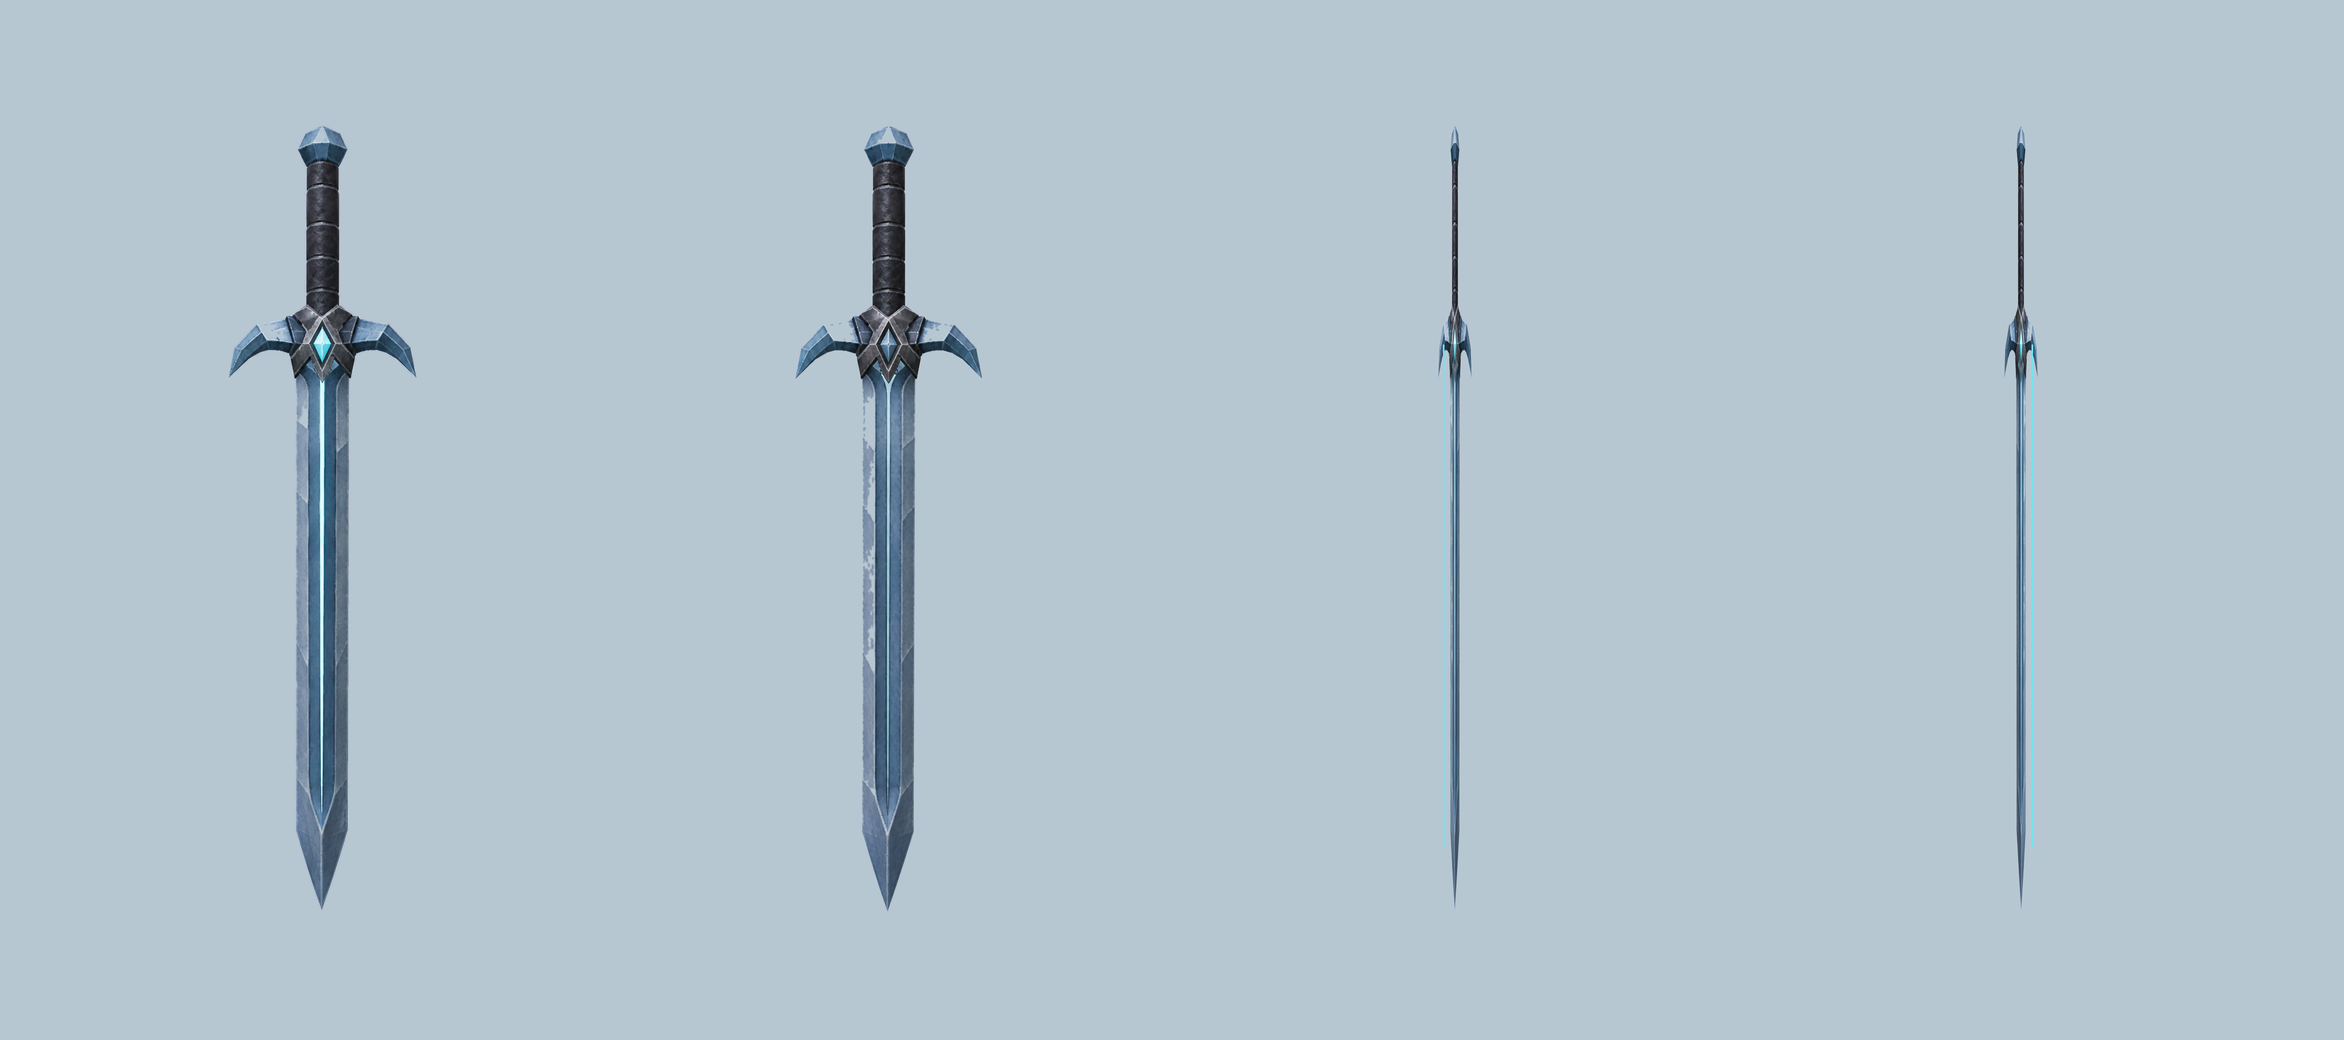
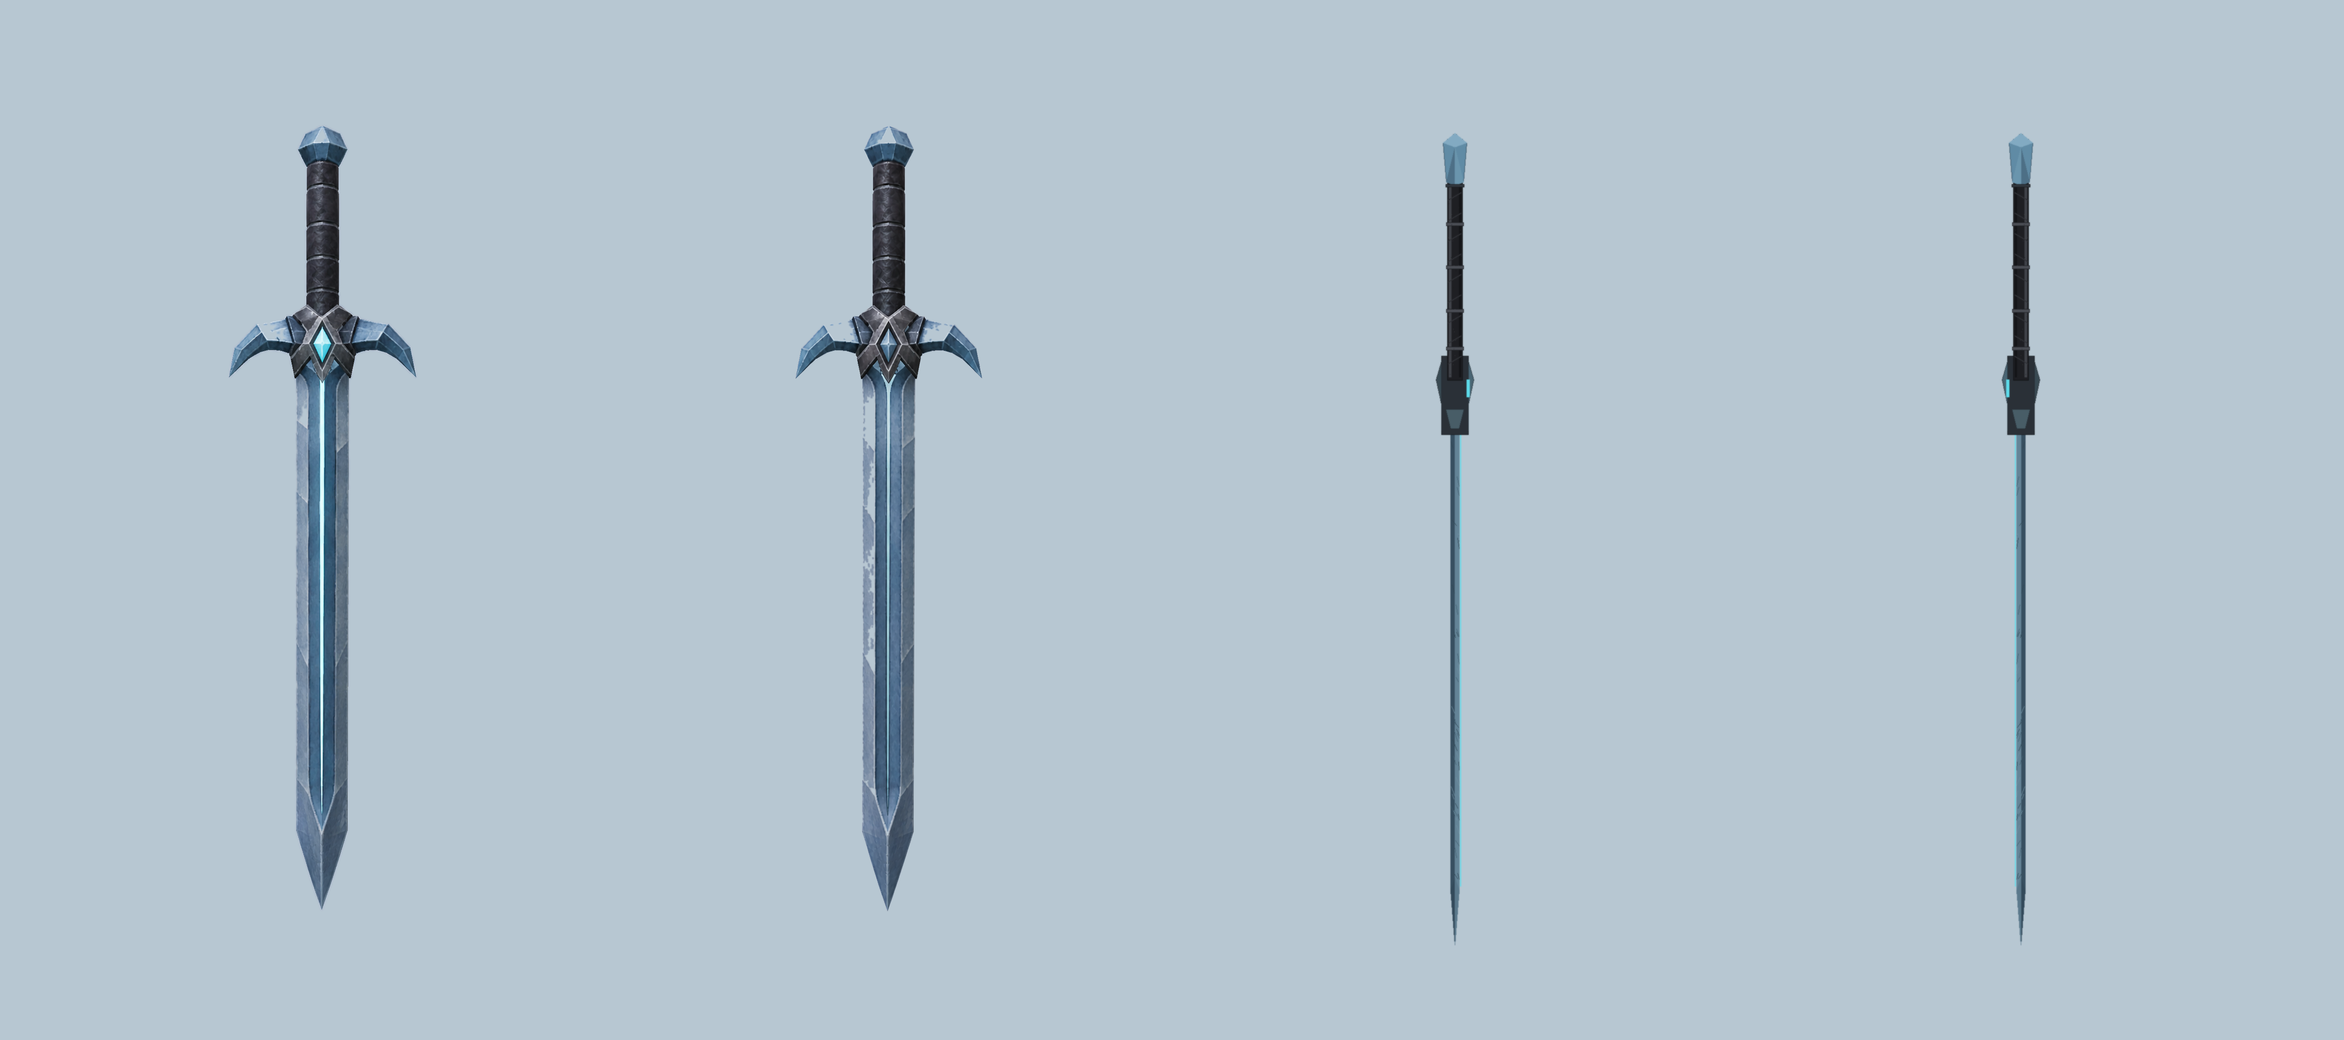
vault backup: 2026-06-25 17:46:44

Changed region(s): [[0.5917, 0.1231, 0.654, 0.8615], [0.8409, 0.1231, 0.872, 0.8615]]

diff --git a/81_WorkFlow 工作流/Roblox/Tripo多视图工作流/README.md b/81_WorkFlow 工作流/Roblox/Tripo多视图工作流/README.md
@@ -13,10 +13,10 @@
 1. 先生成并人工确认 1 张同系列改款 `front`。
 2. `front` 通过后立刻作为唯一设计锁，不再回原图重新发散。
 3. 先判断武器类型，再决定侧视规则：平面型、长柄枪头型、体块型。
-4. 平面型侧视必须是真 90 度窄边；长柄枪头型侧视保留枪头结构但不露完整正面宝石；体块型侧视保留体积和侧向结构。
+4. 平面型侧视必须是真 90 度垂直侧面轮廓；不能把正视图横向压扁后冒充侧视。长柄枪头型侧视保留枪头结构但不露完整正面宝石；体块型侧视保留体积和侧向结构。
 5. 左右侧视如果容易发散，优先生成一张合格侧视，再镜像另一侧。
 6. 最终交付图必须是纯色背景，不允许保留视口地面线、渐变、场景、UI、坐标轴、阴影噪点或背景纹理。
-7. 平面型武器的 `left / right` 侧视必须垂直居中，不允许继承正面的倾斜姿态、交叉姿态或 3/4 姿态。
+7. 平面型武器的 `left / right` 侧视必须垂直居中，不允许继承正面的倾斜姿态、交叉姿态、正面纹理面或 3/4 姿态。
 8. 输出外层文件夹使用中文命名，内部图片保留 `front / back / left / right` 标准视图名。
 9. 图像风格以 Tripo 建模可用为目标：低模大面、结构清楚、少毛刺、少碎裂，方便后续 Blender 精简。
 10. 如果 Tripo 生成结果出现灰白素模、碎面、结构脏、材质不明显，不要第一时间判断为面数太低；优先生成一版“建模友好版四视图”作为补救输入。
@@ -68,11 +68,12 @@
 
 ```text
 left / right 必须是真 90 度侧视。
-主体应压缩成窄边缘，只保留厚度和边缘细节。
-不能出现大面积正面轮廓。
+主体必须按侧向相机重建成窄边缘，只保留厚度、侧向轮廓和边缘细节。
+不能出现大面积正面轮廓，也不能保留正视图的完整 blade 面、完整中心槽、完整宝石面或完整护手展开。
 侧视主体必须垂直居中，不能倾斜，不能沿用 front 的交叉 / 斜摆姿态。
-如果 AI 生成的侧视不是垂直窄边，必须判定失败，不允许交付。
-平面型侧视允许用确认后的 front 提取主体并压缩到固定垂直中轴线，再镜像另一侧；这比让 AI 重新猜侧视更稳。
+如果 AI 生成的侧视不是垂直 90 度窄边，必须判定失败，不允许交付。
+如果需要从确认后的 front 派生侧视，只允许做“侧面轮廓重建”：根据 front 的高度、柄长、护手位置和材质色生成侧向厚度轮廓。禁止直接横向压缩 front 贴图，因为那会保留正面 blade 面和正面装饰。
+合格的平面型侧视应像从武器侧面垂直看过去的薄边：blade 是窄厚度条，护手只是短小前后深度块，宝石只露薄边或被遮挡。
 如果是长枪 / 矛 / 戟这类长柄枪头型，侧视不能压成普通细针；枪头长度、护颈 / 枪托轮廓必须保留，只是宽度变窄。
 ```
 
@@ -416,6 +417,7 @@ BACK_VIEW_SHAPE_MISMATCH
 SIDE_VIEW_NOT_90_DEGREE
 SIDE_VIEW_NOT_VERTICAL
 SIDE_VIEW_FRONT_POSE_INHERITED
+SIDE_VIEW_FRONT_COMPRESSED_FAKE
 SIDE_TOO_THIN_FOR_VOLUME_WEAPON
 SIDE_VOLUME_MISSING
 SIDE_SPIKES_MISSING
@@ -444,8 +446,9 @@ MODEL_FRIENDLY_FOUR_VIEW_REQUIRED
 
 1. 平面型侧视必须垂直居中，主体沿固定中轴线站直。
 2. 对平面型薄刃武器，合格侧视应接近一条垂直窄边，只保留厚度、边缘颜色和少量可见材质信息。
-3. 如果 AI 侧视不垂直，优先从确认后的 `front` 提取主体并压缩到垂直中轴线，再镜像另一侧。
-4. 最终 `front / back / left / right` 必须清理为纯色背景后再交付。
+3. 不允许把 `front` 横向压扁当成侧视；如果还能看出完整正面 blade 面、中心槽、正面宝石或展开护手，记为 `SIDE_VIEW_FRONT_COMPRESSED_FAKE`。
+4. 如果 AI 侧视不是真 90 度，必须重建侧面轮廓：按确认后的 `front` 的高度、柄长、护手位置、颜色区生成侧向厚度图，再镜像另一侧。
+5. 最终 `front / back / left / right` 必须清理为纯色背景后再交付。
 
 ## 狼牙棒这次的缺陷记录
 
@@ -467,7 +470,7 @@ MODEL_FRIENDLY_FOUR_VIEW_REQUIRED
 平面型武器：
 
 ```text
-这把是平面型武器。先做同系列改款 front，我确认后，再基于它扩 back / left / right。left 和 right 必须是真 90 度、垂直居中、纯色背景的细线侧视；不允许倾斜、交叉姿态或 3/4 视图。
+这把是平面型武器。先做同系列改款 front，我确认后，再基于它扩 back / left / right。left 和 right 必须是真 90 度、垂直居中、纯色背景的侧面轮廓；不允许倾斜、交叉姿态、3/4 视图，也不允许把 front 横向压扁当侧视。
 ```
 
 体块型武器：

diff --git a/81_WorkFlow 工作流/Roblox/Tripo多视图工作流/输出内容/冰蓝暗钢短剑_平面型四视图/FAILURE_LOG.md b/81_WorkFlow 工作流/Roblox/Tripo多视图工作流/输出内容/冰蓝暗钢短剑_平面型四视图/FAILURE_LOG.md
@@ -5,7 +5,16 @@
 - rejected_candidate: `输出内容\_imagegen_candidates\冰蓝暗钢短剑_2026-06-25\left_candidate_01_rejected_not_strict_90.png`
 - symptom: AI side candidate was upright and narrower than the front, but the blade still showed too much broad front-facing surface.
 - decision: rejected for final delivery.
-- fix: derived a strict side profile from the accepted front by compressing the foreground onto a centered vertical axis.
+- fix: replaced with candidate 03, a reconstructed true 90-degree side silhouette. The final side view preserves only side thickness and side-visible geometry, not a compressed front texture.
+
+## SIDE_VIEW_FRONT_COMPRESSED_FAKE
+
+- rejected_candidates:
+  - `输出内容\_imagegen_candidates\冰蓝暗钢短剑_2026-06-25\left_candidate_02_rejected_front_compression_not_true_side.png`
+  - `输出内容\_imagegen_candidates\冰蓝暗钢短剑_2026-06-25\right_candidate_02_rejected_front_compression_not_true_side.png`
+- symptom: candidate 02 was a narrow image, but it still came from compressed front texture and could preserve front-view blade/groove language.
+- decision: rejected for final delivery.
+- fix: replaced with candidate 03, a reconstructed true 90-degree side silhouette with side thickness only.
 
 ## BACKGROUND_NOT_SOLID
 
@@ -14,6 +23,7 @@
 
 ## Resolved
 
-- `SIDE_VIEW_NOT_90_DEGREE`: resolved with compressed strict side.
+- `SIDE_VIEW_NOT_90_DEGREE`: resolved with reconstructed strict side silhouette.
+- `SIDE_VIEW_FRONT_COMPRESSED_FAKE`: resolved with reconstructed strict side silhouette.
 - `SIDE_VIEW_NOT_VERTICAL`: resolved; final side views are centered vertical.
 - `BACKGROUND_NOT_SOLID`: resolved; final views use flat background.

diff --git a/81_WorkFlow 工作流/Roblox/Tripo多视图工作流/输出内容/冰蓝暗钢短剑_平面型四视图/PROMPT.md b/81_WorkFlow 工作流/Roblox/Tripo多视图工作流/输出内容/冰蓝暗钢短剑_平面型四视图/PROMPT.md
@@ -34,10 +34,19 @@ Because this is a flat sword, compress the front-facing blade, guard, diamond so
 The side profile must stand perfectly upright on a centered vertical axis. Maximum visible width should be much narrower than the front view, like a clean thin vertical edge with small thickness at grip, guard, pommel, and blade. No diagonal lean, no crossed pose, no perspective rotation, no visible broad front face.
 ```
 
+## Rejected Side Method
+
+```text
+Do not horizontally compress the accepted front image and call it a side view.
+That produces SIDE_VIEW_FRONT_COMPRESSED_FAKE because the image still reads as a front blade face.
+```
+
 ## Final Side Method
 
 ```text
-For this flat sword, final side views were derived from the approved front by compressing the accepted front foreground onto a centered vertical axis.
-Left is the strict 90-degree compressed profile.
+For this flat sword, final side views were reconstructed as a true 90-degree orthographic side silhouette.
+Preserve total height, handle length, guard position, pommel position, and palette.
+Draw only side thickness: narrow blade edge, narrow grip edge, hidden-or-sliver gem, short front/back guard-depth block.
+Left is the reconstructed strict 90-degree side silhouette.
 Right is a horizontal mirror of left.
 ```

diff --git a/81_WorkFlow 工作流/Roblox/Tripo多视图工作流/输出内容/冰蓝暗钢短剑_平面型四视图/RUN_STATE.md b/81_WorkFlow 工作流/Roblox/Tripo多视图工作流/输出内容/冰蓝暗钢短剑_平面型四视图/RUN_STATE.md
@@ -28,11 +28,12 @@
 
 - Back view was generated from the approved front as design lock.
 - AI-generated left side candidate 01 was rejected because it still showed too much front blade face.
-- Final left side was derived from the approved front by compressing the foreground onto a centered vertical axis.
-- Final right side was mirrored from the strict 90-degree left side.
+- Left / right candidate 02 was rejected because it was a front-compression fake side view, not a reconstructed 90-degree side silhouette.
+- Final left side is candidate 03: a reconstructed true 90-degree side silhouette with narrow blade edge, narrow grip edge, hidden/sliver gem, and short guard-depth block.
+- Final right side was mirrored from candidate 03.
 
 ## Verification
 
 - All final views use a solid flat blue-gray background.
-- Left / right are true vertical narrow side profiles for a flat sword.
+- Left / right are true vertical 90-degree side silhouettes for a flat sword, not compressed front textures.
 - No viewport UI, floor plane, horizon line, text, watermark, character, or hand is present.
